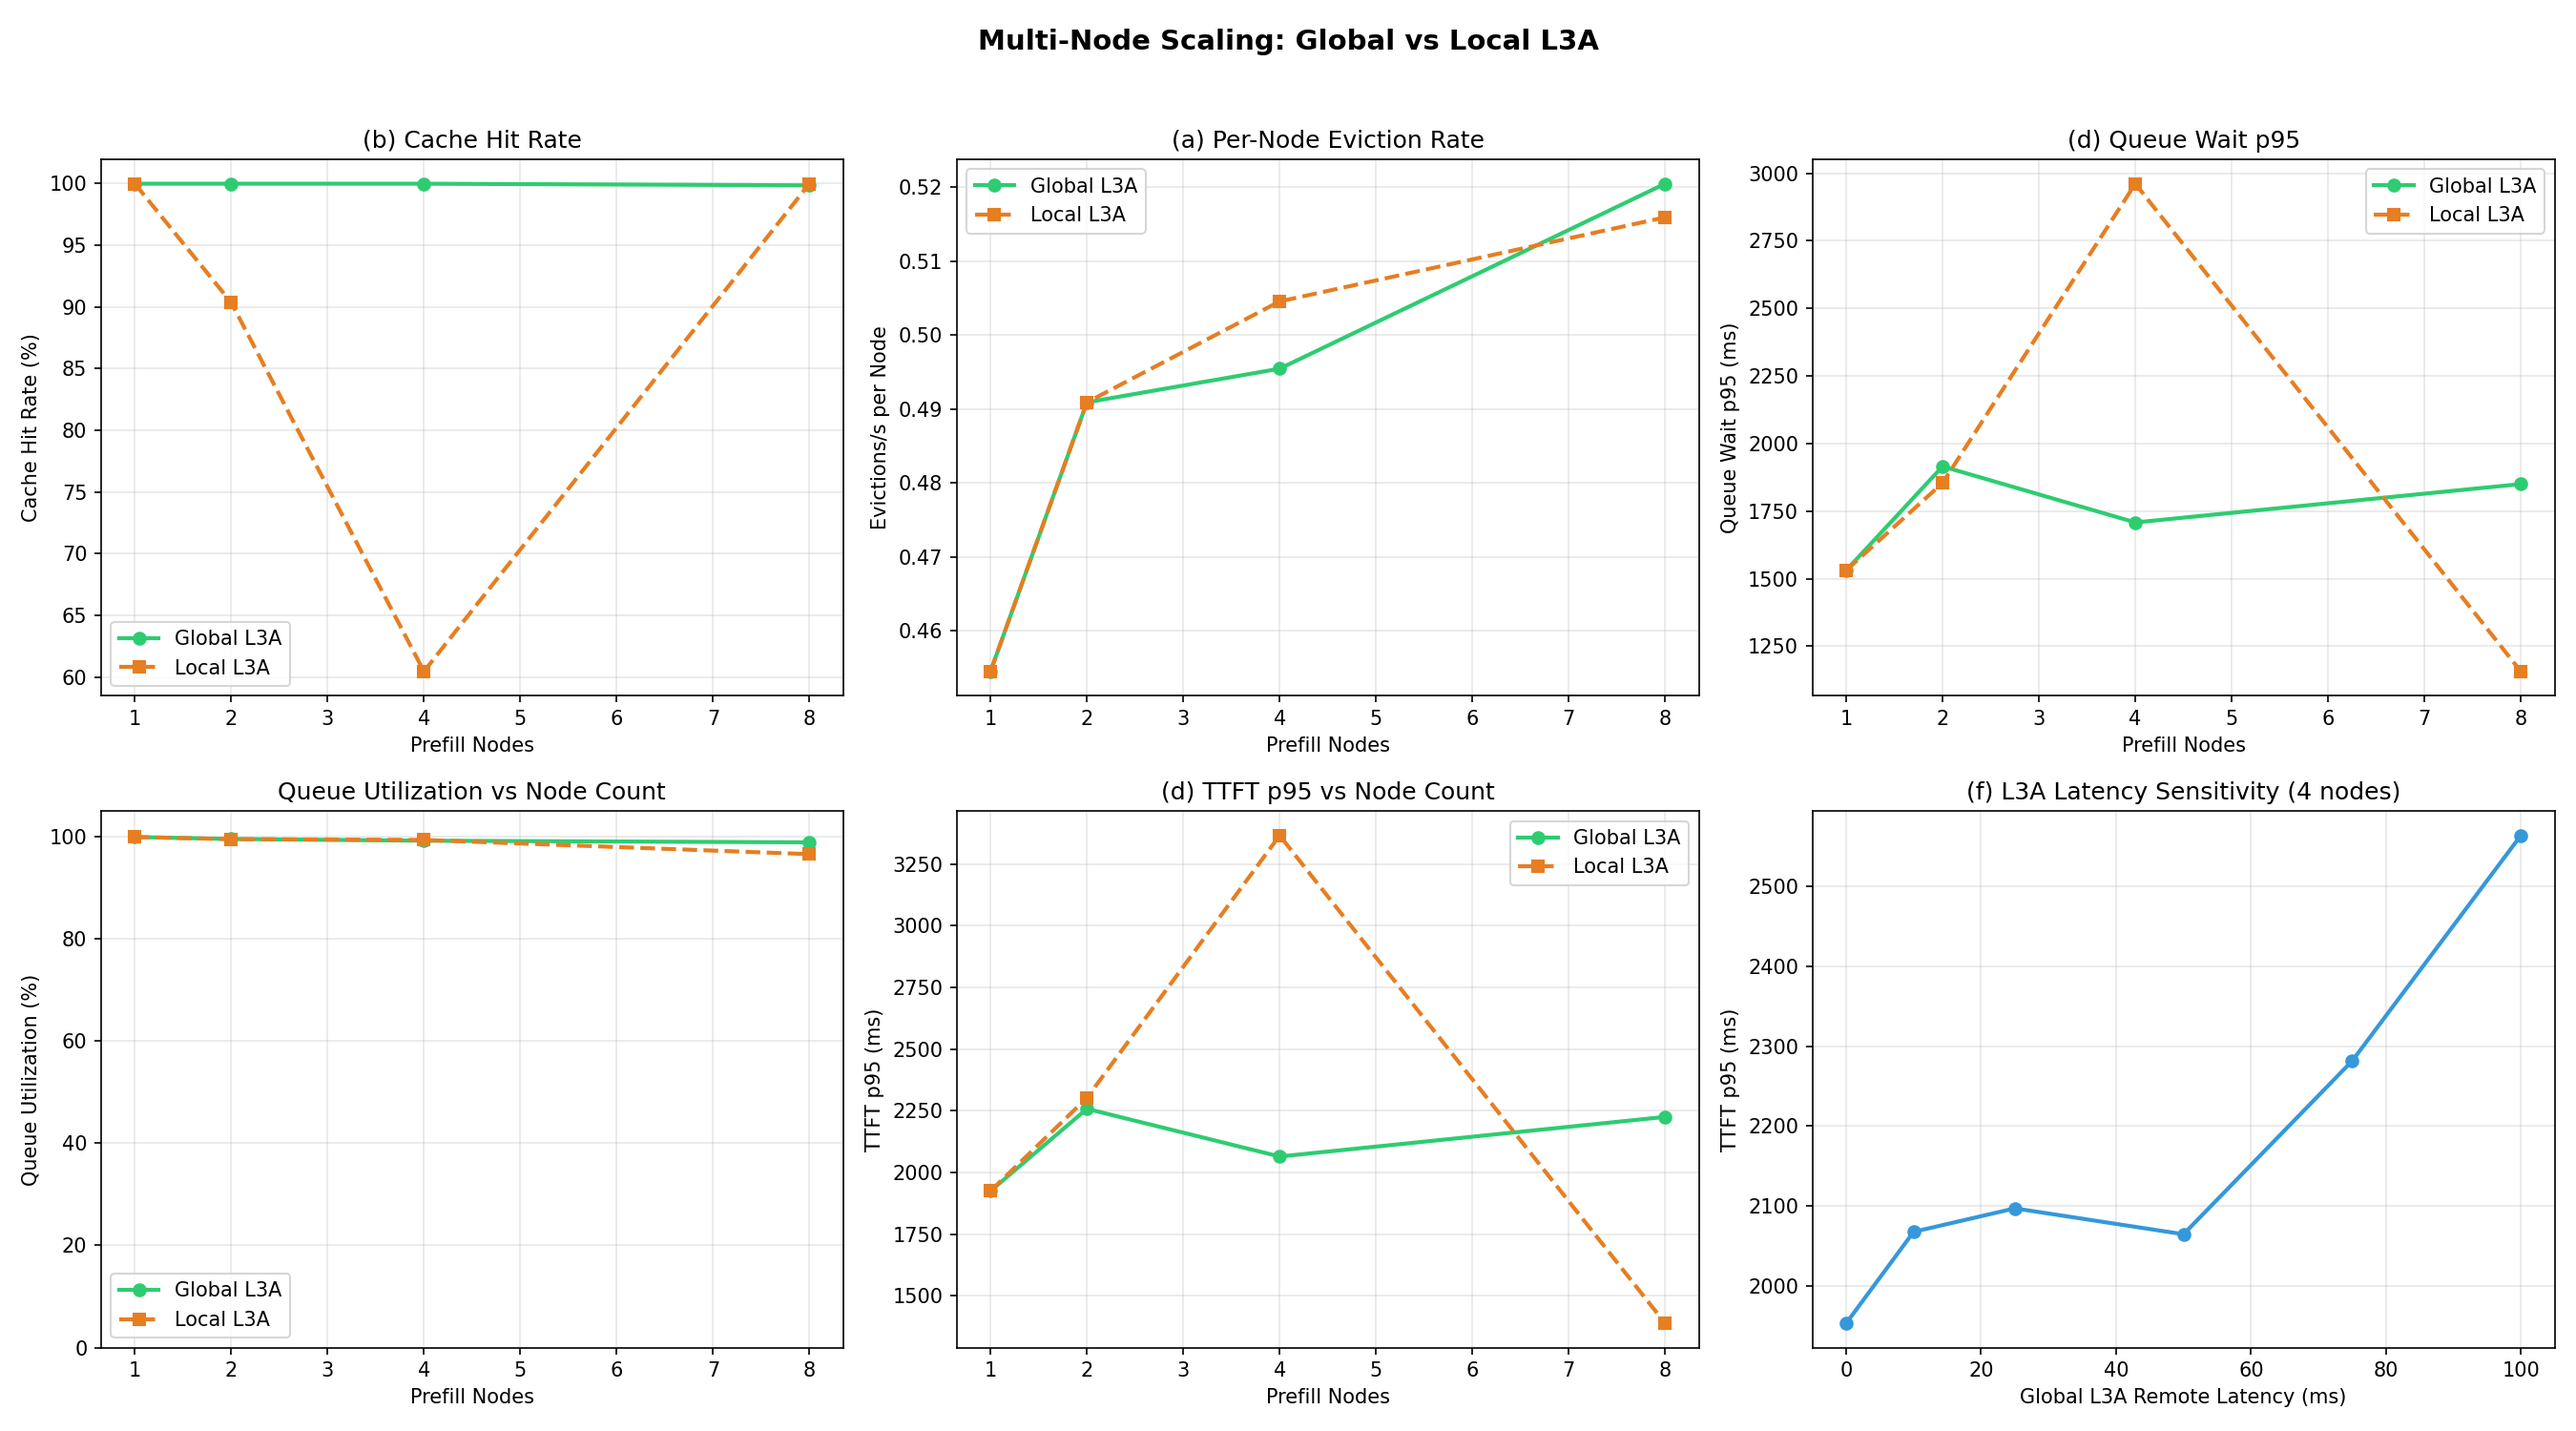
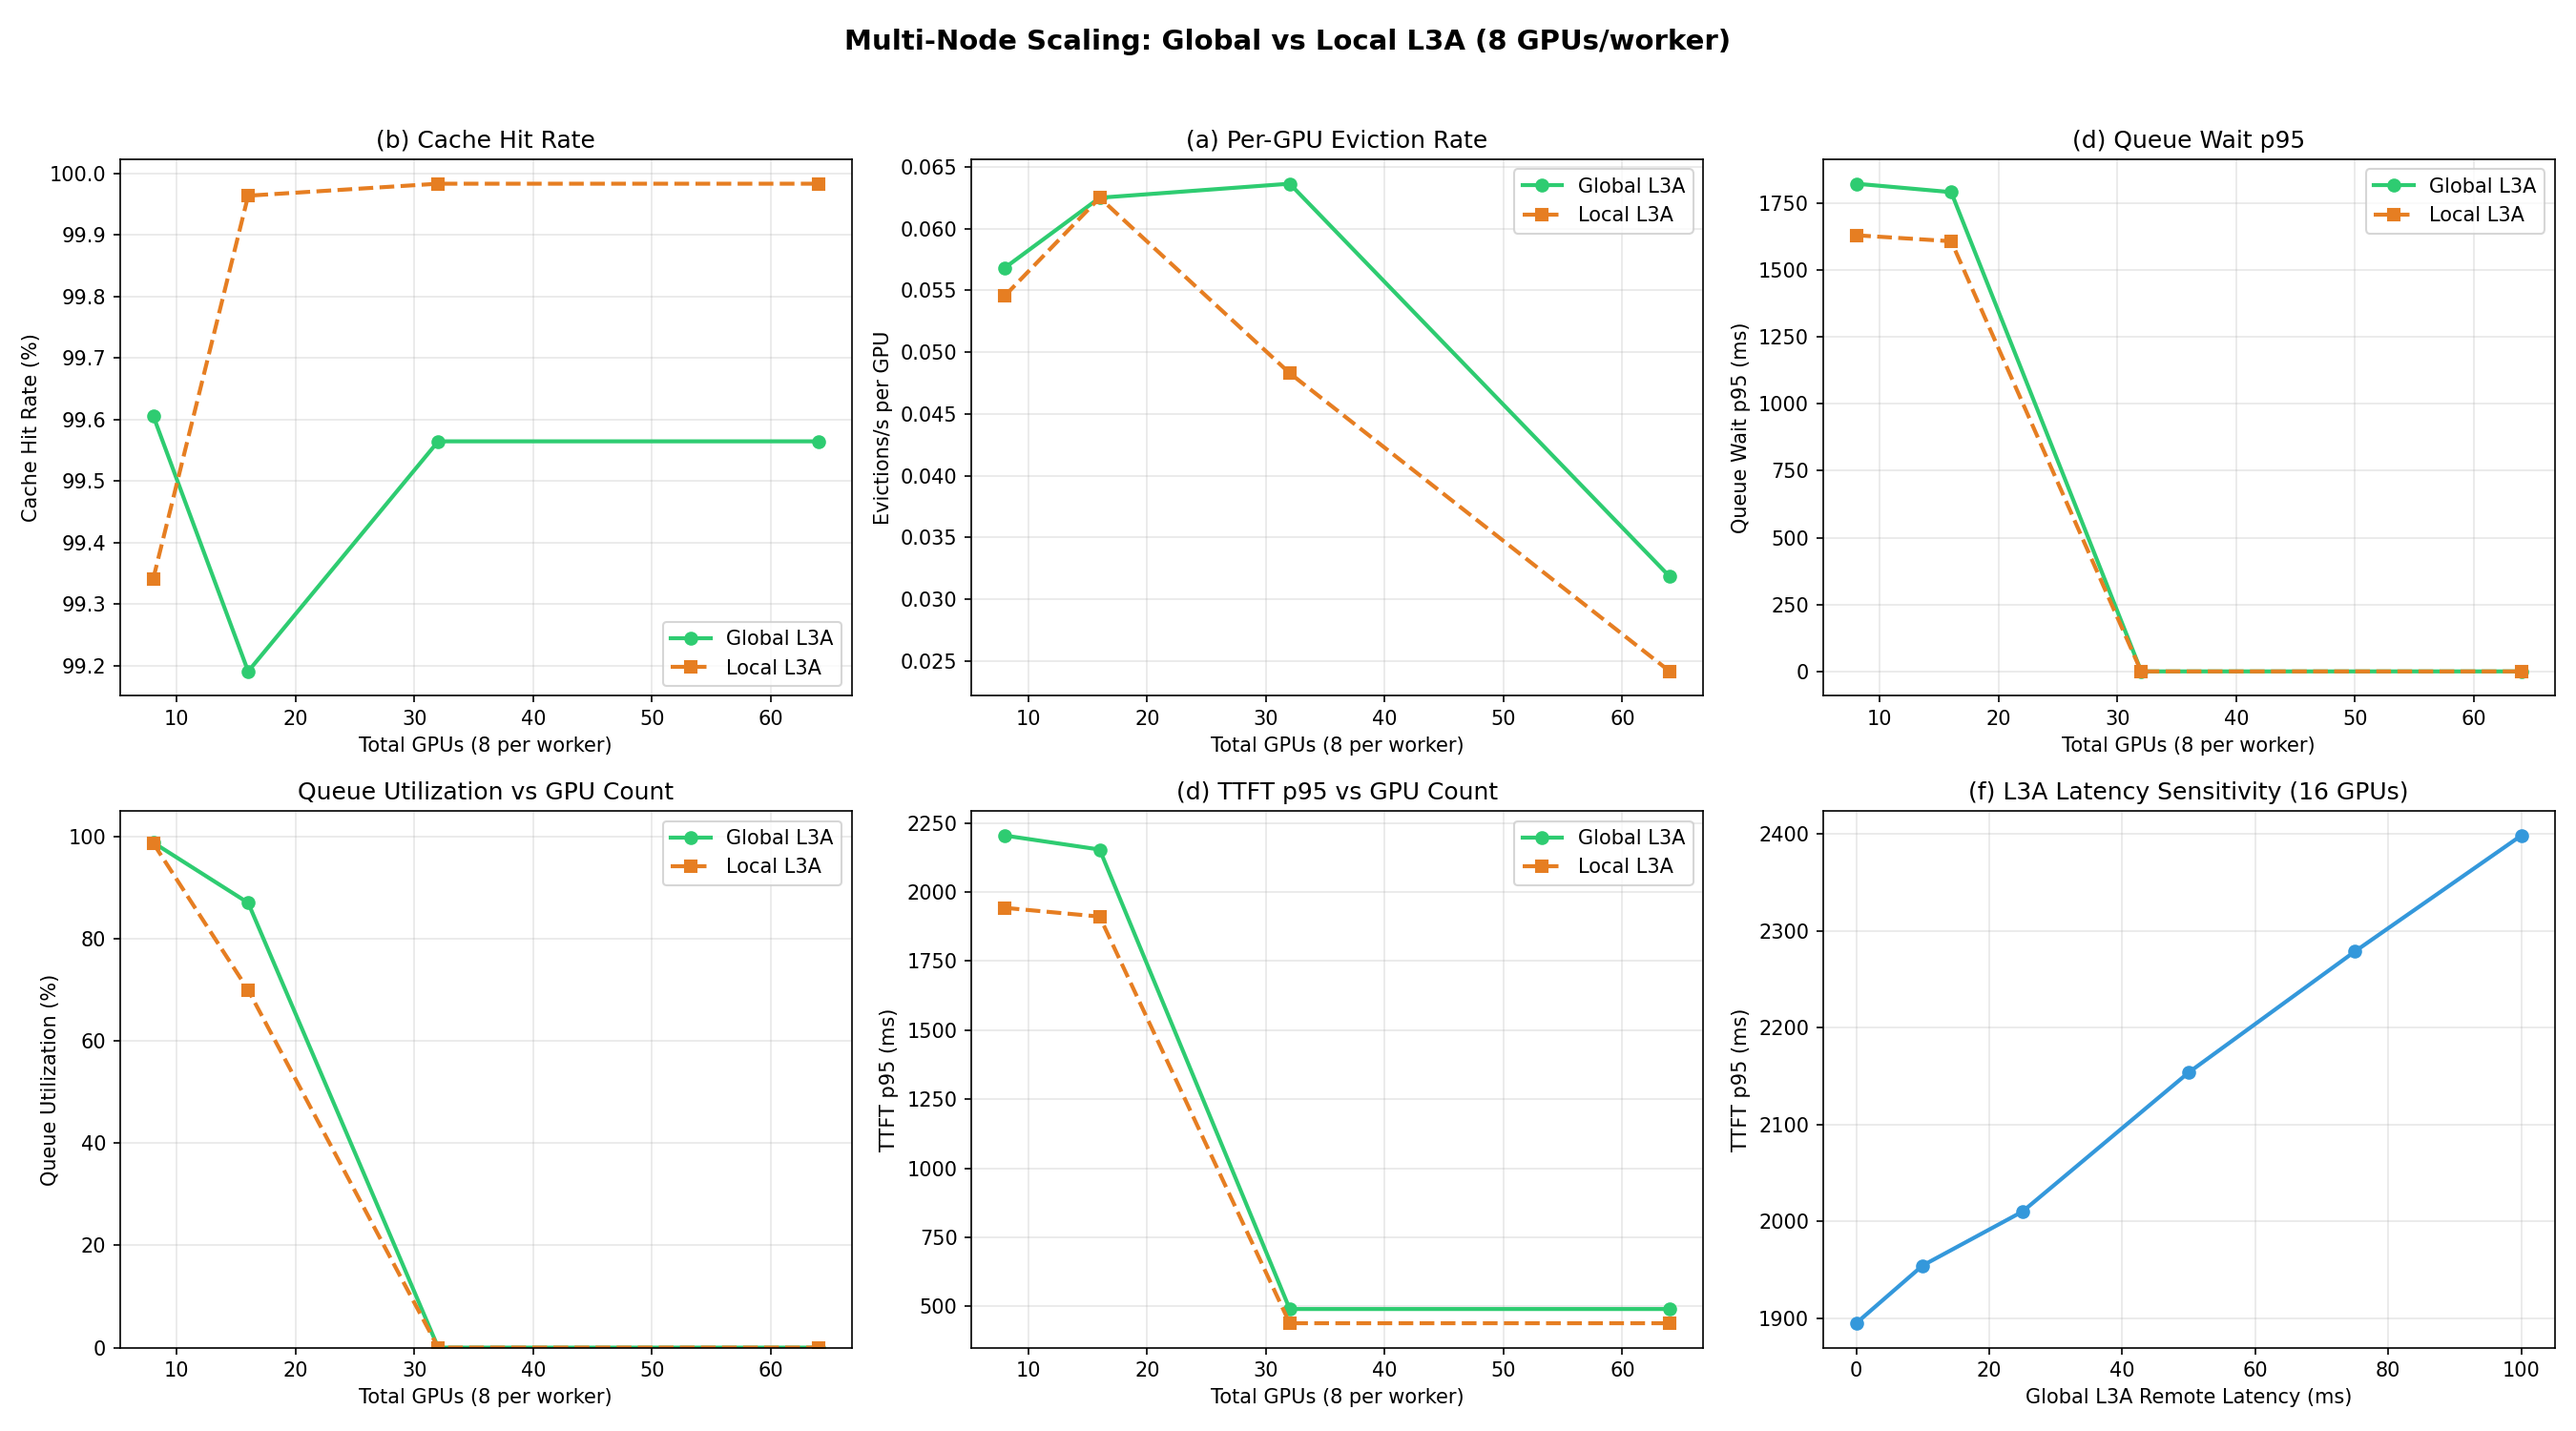
Regenerate all plots with worker topology (8 GPUs per worker)
Sweep now uses workers (1-8 workers × 8 GPUs each = 8-64 GPUs) instead
of raw node counts. X-axes show total GPUs with worker grouping.

Results with realistic topology:
- Phase transition at 32 GPUs (4 workers): queue wait drops to 0
- Sustaining QPS: 27→237 across 8→64 GPUs (global L3A)
- L3A latency sensitivity: TTFT 1895→2398ms across 0→100ms
- Cache misses now visible (~0.4-0.8%) with v2 coding workloads

diff --git a/scripts/sanity_plots.py b/scripts/sanity_plots.py
@@ -289,12 +289,17 @@ def plot_l1_sensitivity():
 
 # ── Plot 8: Node-scaling — Global vs Local L3A ──
 
-def _collect_node_scaling_data(node_counts, l3a_shared, label):
-    """Run sims for each node count and collect metrics."""
+GPUS_PER_WORKER = 8  # realistic: 8 GPUs per host
+
+
+def _collect_node_scaling_data(worker_counts, l3a_shared, label):
+    """Run sims for each worker count and collect metrics."""
     results = []
-    for n in node_counts:
+    for nw in worker_counts:
+        n_gpus = nw * GPUS_PER_WORKER
         cfg = stressed_config()
-        cfg.service.n_prefill_nodes = n
+        cfg.service.n_prefill_nodes = n_gpus
+        cfg.service.n_gpus_per_worker = GPUS_PER_WORKER
         cfg.service.dispatch_algorithm = "push"
         cfg.service.l3a_shared = l3a_shared
         cfg.service.l3a_remote_latency_us = 50_000 if l3a_shared else 0
@@ -306,7 +311,7 @@ def _collect_node_scaling_data(node_counts, l3a_shared, label):
 
         # Queue utilization %
         q = m.prefill_queue_depth
-        total_queue_max = n * cfg.service.prefill_queue_max
+        total_queue_max = n_gpus * cfg.service.prefill_queue_max
         queue_util = (np.mean(q) / total_queue_max * 100) if q and total_queue_max > 0 else 0.0
 
         # Hit rate breakdown
@@ -329,7 +334,8 @@ def _collect_node_scaling_data(node_counts, l3a_shared, label):
         ttft_p95 = float(np.percentile(all_ttft, 95)) / 1000.0 if all_ttft else 0.0
 
         results.append({
-            "n": n,
+            "n_workers": nw,
+            "n_gpus": n_gpus,
             "queue_util_pct": queue_util,
             "hit_rate": 1.0 - miss_rate,
             "l1_hit": l1_hit, "l2_hit": l2_hit, "l3a_hit": l3a_hit, "miss": miss_rate,
@@ -337,41 +343,42 @@ def _collect_node_scaling_data(node_counts, l3a_shared, label):
             "ttft_p95_ms": ttft_p95,
             "evict_rate": evict_rate,
         })
-        print(f"    {label} N={n}: hit={1-miss_rate:.1%} qw_p95={qw_p95:.0f}ms ttft_p95={ttft_p95:.0f}ms")
+        print(f"    {label} {nw}W×{GPUS_PER_WORKER}G={n_gpus}GPUs: hit={1-miss_rate:.1%} qw_p95={qw_p95:.0f}ms ttft_p95={ttft_p95:.0f}ms")
     return results
 
 
 def plot_node_scaling():
-    node_counts = [1, 2, 4, 8]
+    worker_counts = [1, 2, 4, 8]
 
     print("  Collecting global L3A data...")
-    global_data = _collect_node_scaling_data(node_counts, l3a_shared=True, label="Global")
+    global_data = _collect_node_scaling_data(worker_counts, l3a_shared=True, label="Global")
     print("  Collecting local L3A data...")
-    local_data = _collect_node_scaling_data(node_counts, l3a_shared=False, label="Local")
+    local_data = _collect_node_scaling_data(worker_counts, l3a_shared=False, label="Local")
 
+    gpu_counts = [d["n_gpus"] for d in global_data]
     fig, axes = plt.subplots(2, 3, figsize=(18, 10))
 
     # Panel 1: Cache hit rate breakdown (global vs local)
     ax = axes[0, 0]
     g_hit = [d["hit_rate"] * 100 for d in global_data]
     l_hit = [d["hit_rate"] * 100 for d in local_data]
-    ax.plot(node_counts, g_hit, "o-", linewidth=2, color="#2ecc71", label="Global L3A")
-    ax.plot(node_counts, l_hit, "s--", linewidth=2, color="#e67e22", label="Local L3A")
-    ax.set_xlabel("Prefill Nodes")
+    ax.plot(gpu_counts, g_hit, "o-", linewidth=2, color="#2ecc71", label="Global L3A")
+    ax.plot(gpu_counts, l_hit, "s--", linewidth=2, color="#e67e22", label="Local L3A")
+    ax.set_xlabel("Total GPUs (8 per worker)")
     ax.set_ylabel("Cache Hit Rate (%)")
     ax.set_title("(b) Cache Hit Rate")
     ax.legend()
     ax.grid(True, alpha=0.3)
 
-    # Panel 2: Per-node eviction rate
+    # Panel 2: Per-GPU eviction rate
     ax = axes[0, 1]
-    g_evict = [d["evict_rate"] / d["n"] for d in global_data]
-    l_evict = [d["evict_rate"] / d["n"] for d in local_data]
-    ax.plot(node_counts, g_evict, "o-", linewidth=2, color="#2ecc71", label="Global L3A")
-    ax.plot(node_counts, l_evict, "s--", linewidth=2, color="#e67e22", label="Local L3A")
-    ax.set_xlabel("Prefill Nodes")
-    ax.set_ylabel("Evictions/s per Node")
-    ax.set_title("(a) Per-Node Eviction Rate")
+    g_evict = [d["evict_rate"] / d["n_gpus"] for d in global_data]
+    l_evict = [d["evict_rate"] / d["n_gpus"] for d in local_data]
+    ax.plot(gpu_counts, g_evict, "o-", linewidth=2, color="#2ecc71", label="Global L3A")
+    ax.plot(gpu_counts, l_evict, "s--", linewidth=2, color="#e67e22", label="Local L3A")
+    ax.set_xlabel("Total GPUs (8 per worker)")
+    ax.set_ylabel("Evictions/s per GPU")
+    ax.set_title("(a) Per-GPU Eviction Rate")
     ax.legend()
     ax.grid(True, alpha=0.3)
 
@@ -379,9 +386,9 @@ def plot_node_scaling():
     ax = axes[0, 2]
     g_qw = [d["qw_p95_ms"] for d in global_data]
     l_qw = [d["qw_p95_ms"] for d in local_data]
-    ax.plot(node_counts, g_qw, "o-", linewidth=2, color="#2ecc71", label="Global L3A")
-    ax.plot(node_counts, l_qw, "s--", linewidth=2, color="#e67e22", label="Local L3A")
-    ax.set_xlabel("Prefill Nodes")
+    ax.plot(gpu_counts, g_qw, "o-", linewidth=2, color="#2ecc71", label="Global L3A")
+    ax.plot(gpu_counts, l_qw, "s--", linewidth=2, color="#e67e22", label="Local L3A")
+    ax.set_xlabel("Total GPUs (8 per worker)")
     ax.set_ylabel("Queue Wait p95 (ms)")
     ax.set_title("(d) Queue Wait p95")
     ax.legend()
@@ -391,11 +398,11 @@ def plot_node_scaling():
     ax = axes[1, 0]
     g_qu = [d["queue_util_pct"] for d in global_data]
     l_qu = [d["queue_util_pct"] for d in local_data]
-    ax.plot(node_counts, g_qu, "o-", linewidth=2, color="#2ecc71", label="Global L3A")
-    ax.plot(node_counts, l_qu, "s--", linewidth=2, color="#e67e22", label="Local L3A")
-    ax.set_xlabel("Prefill Nodes")
+    ax.plot(gpu_counts, g_qu, "o-", linewidth=2, color="#2ecc71", label="Global L3A")
+    ax.plot(gpu_counts, l_qu, "s--", linewidth=2, color="#e67e22", label="Local L3A")
+    ax.set_xlabel("Total GPUs (8 per worker)")
     ax.set_ylabel("Queue Utilization (%)")
-    ax.set_title("Queue Utilization vs Node Count")
+    ax.set_title("Queue Utilization vs GPU Count")
     ax.set_ylim(0, 105)
     ax.legend()
     ax.grid(True, alpha=0.3)
@@ -404,22 +411,24 @@ def plot_node_scaling():
     ax = axes[1, 1]
     g_ttft = [d["ttft_p95_ms"] for d in global_data]
     l_ttft = [d["ttft_p95_ms"] for d in local_data]
-    ax.plot(node_counts, g_ttft, "o-", linewidth=2, color="#2ecc71", label="Global L3A")
-    ax.plot(node_counts, l_ttft, "s--", linewidth=2, color="#e67e22", label="Local L3A")
-    ax.set_xlabel("Prefill Nodes")
+    ax.plot(gpu_counts, g_ttft, "o-", linewidth=2, color="#2ecc71", label="Global L3A")
+    ax.plot(gpu_counts, l_ttft, "s--", linewidth=2, color="#e67e22", label="Local L3A")
+    ax.set_xlabel("Total GPUs (8 per worker)")
     ax.set_ylabel("TTFT p95 (ms)")
-    ax.set_title("(d) TTFT p95 vs Node Count")
+    ax.set_title("(d) TTFT p95 vs GPU Count")
     ax.legend()
     ax.grid(True, alpha=0.3)
 
-    # Panel 6: L3A latency sensitivity (fixed 4 nodes)
+    # Panel 6: L3A latency sensitivity (fixed 2 workers = 16 GPUs)
     ax = axes[1, 2]
     latencies_ms = [0, 10, 25, 50, 75, 100]
     ttft_at_lat = []
     hit_at_lat = []
+    n_lat_gpus = 2 * GPUS_PER_WORKER  # 2 workers
     for lat_ms in latencies_ms:
         cfg = stressed_config()
-        cfg.service.n_prefill_nodes = 4
+        cfg.service.n_prefill_nodes = n_lat_gpus
+        cfg.service.n_gpus_per_worker = GPUS_PER_WORKER
         cfg.service.l3a_shared = True
         cfg.service.l3a_remote_latency_us = lat_ms * 1000
         cfg.seed = 42
@@ -437,10 +446,10 @@ def plot_node_scaling():
     ax.plot(latencies_ms, ttft_at_lat, "o-", linewidth=2, color="#3498db", label="TTFT p95")
     ax.set_xlabel("Global L3A Remote Latency (ms)")
     ax.set_ylabel("TTFT p95 (ms)")
-    ax.set_title("(f) L3A Latency Sensitivity (4 nodes)")
+    ax.set_title(f"(f) L3A Latency Sensitivity ({n_lat_gpus} GPUs)")
     ax.grid(True, alpha=0.3)
 
-    fig.suptitle("Multi-Node Scaling: Global vs Local L3A", fontsize=14, fontweight="bold")
+    fig.suptitle(f"Multi-Node Scaling: Global vs Local L3A ({GPUS_PER_WORKER} GPUs/worker)", fontsize=14, fontweight="bold")
     fig.tight_layout(rect=[0, 0, 1, 0.96])
     fig.savefig(OUT_DIR / "node_scaling.png", dpi=150)
     plt.close(fig)
@@ -451,6 +460,8 @@ def plot_node_scaling():
 
 def plot_ttl_sensitivity():
     ttl_l2_values = [1, 5, 10, 20, 60, 120]
+    n_ttl_workers = 2
+    n_ttl_gpus = n_ttl_workers * GPUS_PER_WORKER
     fig, (ax1, ax2) = plt.subplots(1, 2, figsize=(14, 5))
 
     for l3a_shared, label, color, marker in [
@@ -461,7 +472,8 @@ def plot_ttl_sensitivity():
         qw_p95s = []
         for ttl in ttl_l2_values:
             cfg = stressed_config()
-            cfg.service.n_prefill_nodes = 4
+            cfg.service.n_prefill_nodes = n_ttl_gpus
+            cfg.service.n_gpus_per_worker = GPUS_PER_WORKER
             cfg.service.l3a_shared = l3a_shared
             cfg.service.l3a_remote_latency_us = 50_000 if l3a_shared else 0
             cfg.ttl_l2_s = ttl
@@ -489,7 +501,7 @@ def plot_ttl_sensitivity():
     ax2.legend()
     ax2.grid(True, alpha=0.3)
 
-    fig.suptitle("TTL Sensitivity: Global vs Local L3A (4 nodes)", fontsize=13, fontweight="bold")
+    fig.suptitle(f"TTL Sensitivity: Global vs Local L3A ({n_ttl_gpus} GPUs, {n_ttl_workers} workers)", fontsize=13, fontweight="bold")
     fig.tight_layout(rect=[0, 0, 1, 0.95])
     fig.savefig(OUT_DIR / "ttl_sensitivity.png", dpi=150)
     plt.close(fig)
@@ -499,7 +511,7 @@ def plot_ttl_sensitivity():
 # ── Plot 10: Sustaining QPS at SLA ──
 
 def plot_sustaining_qps():
-    node_counts = [1, 2, 4, 8]
+    worker_counts = [1, 2, 4, 8]
     sla_ms = 500.0  # p95 queue wait < 500ms
 
     fig, ax = plt.subplots(figsize=(10, 6))
@@ -509,9 +521,13 @@ def plot_sustaining_qps():
         (False, "Local L3A", "#e67e22", "s--"),
     ]:
         qps_values = []
-        for n in node_counts:
+        gpu_counts = []
+        for nw in worker_counts:
+            n_gpus = nw * GPUS_PER_WORKER
+            gpu_counts.append(n_gpus)
             cfg = stressed_config()
-            cfg.service.n_prefill_nodes = n
+            cfg.service.n_prefill_nodes = n_gpus
+            cfg.service.n_gpus_per_worker = GPUS_PER_WORKER
             cfg.service.l3a_shared = l3a_shared
             cfg.service.l3a_remote_latency_us = 50_000 if l3a_shared else 0
             cfg.seed = 42
@@ -528,20 +544,15 @@ def plot_sustaining_qps():
             sustaining = mult * base_qps
             qps_values.append(sustaining)
             actual_qw = report.get("_queue_wait_p95_ms", 0)
-            print(f"    {label} N={n}: sustaining={sustaining:.0f} qps (mult={mult:.2f}, qw_p95={actual_qw:.0f}ms)")
+            print(f"    {label} {nw}W×{GPUS_PER_WORKER}G={n_gpus}GPUs: sustaining={sustaining:.0f} qps (mult={mult:.2f}, qw_p95={actual_qw:.0f}ms)")
 
-        ax.plot(node_counts, qps_values, marker, linewidth=2, color=color, label=label)
+        ax.plot(gpu_counts, qps_values, marker, linewidth=2, color=color, label=label)
 
-    ax.set_xlabel("Prefill Nodes")
+    ax.set_xlabel(f"Total GPUs ({GPUS_PER_WORKER} per worker)")
     ax.set_ylabel(f"Sustaining QPS (p95 queue wait < {sla_ms:.0f}ms)")
-    ax.set_title("(e) Sustaining QPS at SLA vs Node Count")
+    ax.set_title("(e) Sustaining QPS at SLA vs GPU Count")
     ax.legend()
     ax.grid(True, alpha=0.3)
-
-    # Add ideal linear scaling line
-    if qps_values:
-        ax.plot(node_counts, [node_counts[0] * qps_values[0] / node_counts[0] * n for n in node_counts],
-                "k:", alpha=0.3, label="Ideal linear")
 
     fig.tight_layout()
     fig.savefig(OUT_DIR / "sustaining_qps.png", dpi=150)
